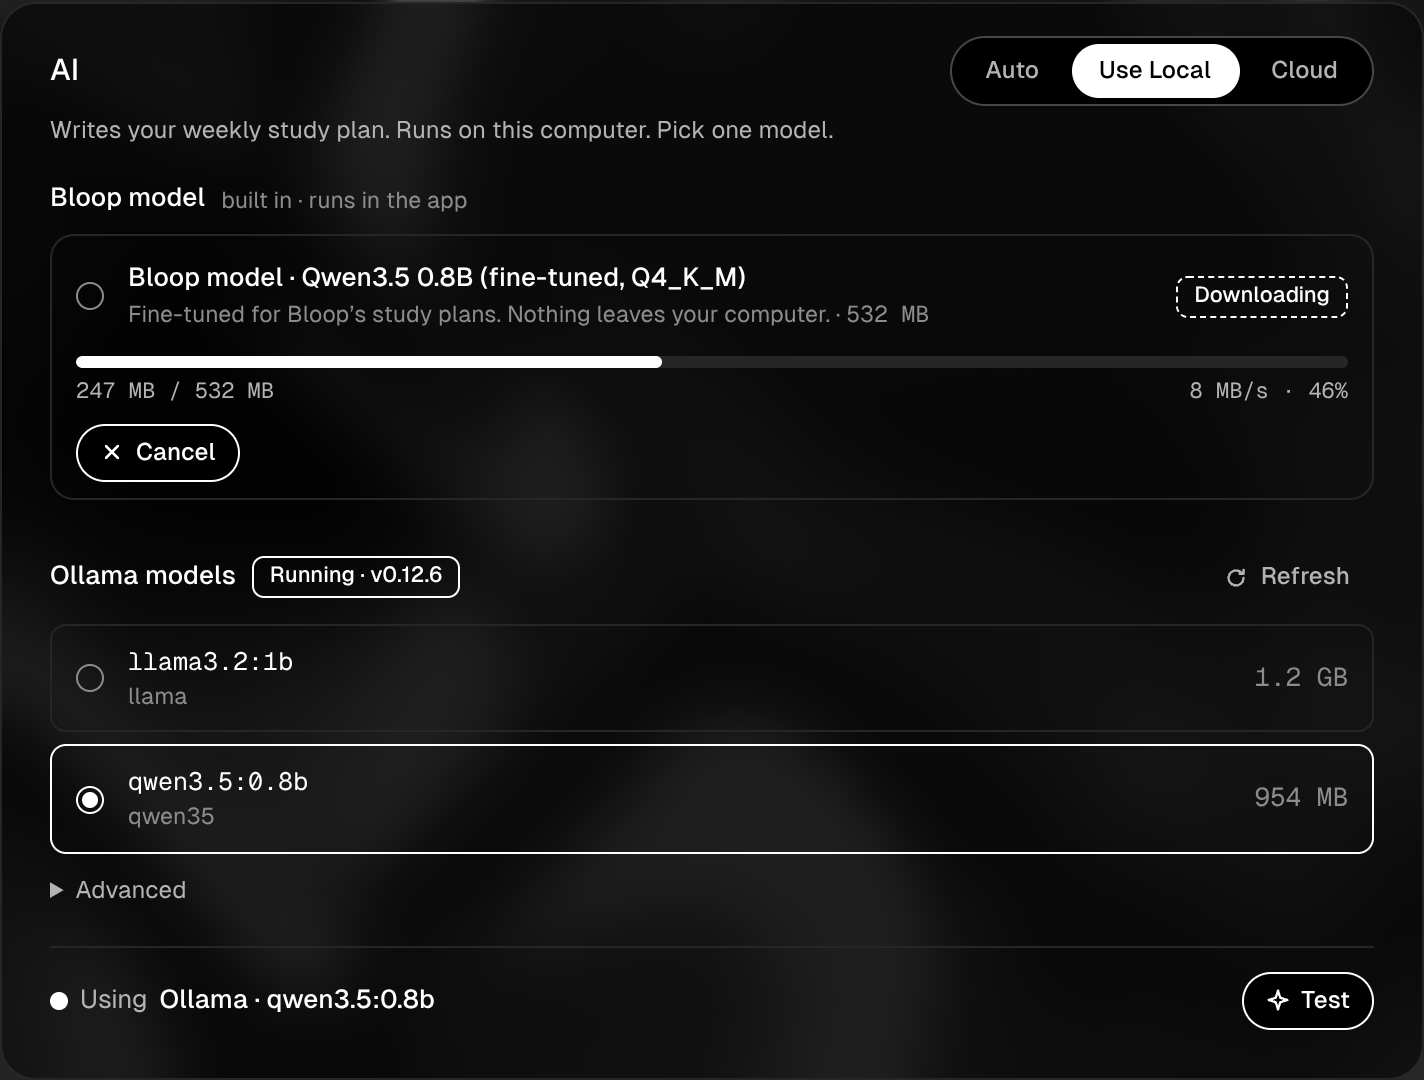
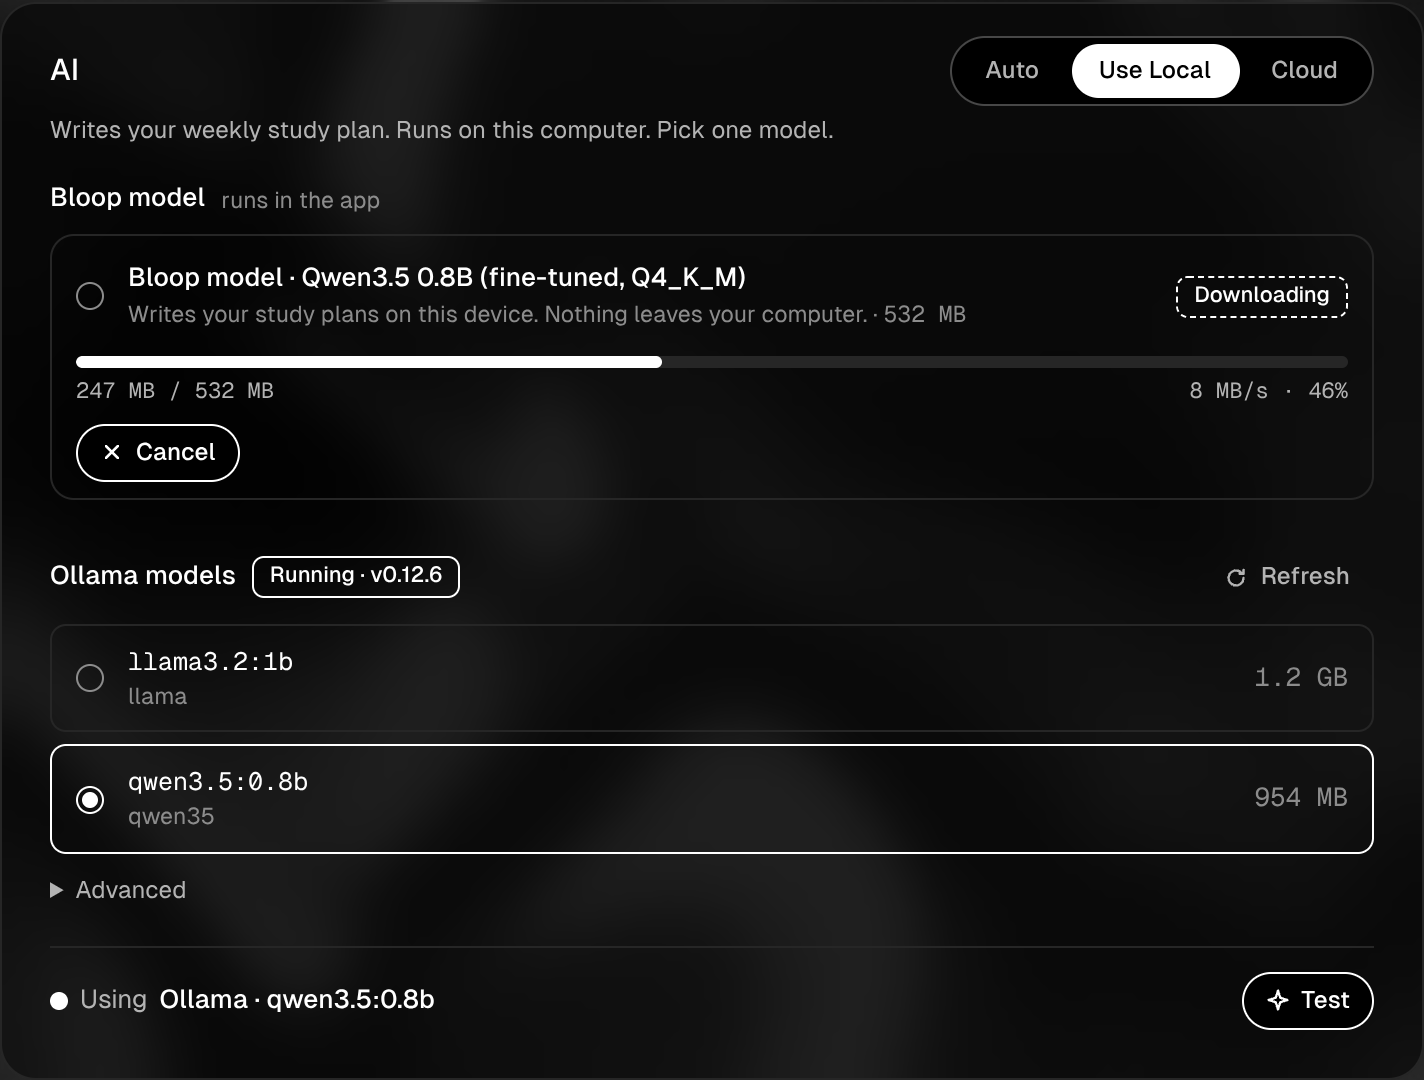
Bloop model: download the official Qwen3.5-0.8B Q4_K_M in-app (asks first)
- BLOOP_MODEL_URL/SHA256/BYTES point at unsloth/Qwen3.5-0.8B-GGUF Q4_K_M (532 MB,
  Apache-2.0), pinned to a revision; verified on download
- Copy no longer says fine-tuned; fine-tuning is optional (ml/ kit)
- README: download, bundling, swapping the source, Ollama think:false
- Regenerated AI settings screenshots

Changed region(s): [[0.0927, 0.275, 0.6798, 0.3056], [0.2163, 0.1833, 0.3399, 0.2139], [0.1545, 0.1833, 0.1854, 0.2139]]

diff --git a/src/main/ai/local/bloop.ts b/src/main/ai/local/bloop.ts
@@ -1,4 +1,5 @@
-// The Bloop model: our fine-tuned Qwen3.5-0.8B (Q4_K_M GGUF), run in-app with node-llama-cpp.
+// The Bloop model: Qwen3.5-0.8B (Q4_K_M GGUF), run in-app with node-llama-cpp. Stock by default; a
+// fine-tuned build (ml/ kit) can replace it via the constants below or by bundling it into the app.
 // The model can ship INSIDE the app (resources/models, see bundledModelDirs) but stays OFF until the
 // user turns it on (AiSettings.bloopEnabled). Otherwise it is imported, or downloaded ONLY after the
 // user confirms in the UI (download(true)); nothing here ever starts a download on its own. Electron-free so it can be unit tested; local/index.ts wires it up.
@@ -11,18 +12,22 @@ import type { BloopSource, DownloadProgress, LocalStatus } from '@shared/ai'
 import type { CompleteOptions } from '../types'
 
 // ------------------------------------------------------------------ catalog
-// Filled in after the fine-tuned GGUF is published (see README → AI → Publishing the Bloop model).
+// The download source. Set to the stock model; point these at a fine-tuned GGUF to ship that instead.
 // While BLOOP_MODEL_URL is empty the download button is disabled ("Not published yet");
 // importing a .gguf from disk still works.
 
 export const BLOOP_MODEL_ID = 'bloop-qwen3.5-0.8b'
-export const BLOOP_MODEL_LABEL = 'Bloop model · Qwen3.5 0.8B (fine-tuned)'
-/** Direct https URL of the .gguf (e.g. a Hugging Face "resolve/main/…gguf" link). */
-export const BLOOP_MODEL_URL = ''
+export const BLOOP_MODEL_LABEL = 'Bloop model · Qwen3.5 0.8B'
+/**
+ * Direct https URL of the .gguf. Default: the stock Qwen/Qwen3.5-0.8B quantized to Q4_K_M by Unsloth
+ * (Apache-2.0), pinned to a revision so the sha256 below stays valid. Swap in a fine-tuned build here.
+ */
+export const BLOOP_MODEL_URL =
+  'https://huggingface.co/unsloth/Qwen3.5-0.8B-GGUF/resolve/6ab461498e2023f6e3c1baea90a8f0fe38ab64d0/Qwen3.5-0.8B-Q4_K_M.gguf'
 /** Lowercase hex sha256 of the .gguf; when set, downloads are verified. */
-export const BLOOP_MODEL_SHA256 = ''
[1 lines of base64/hex data omitted]
 /** Exact size in bytes; used for the "~X MB" prompt and the free-space check. 0 = unknown. */
-export const BLOOP_MODEL_BYTES = 0
+export const BLOOP_MODEL_BYTES = 532_517_120
 /** File name inside userData/models. */
 export const BLOOP_MODEL_FILE = 'bloop-qwen3.5-0.8b-q4_k_m.gguf'
 

diff --git a/src/renderer/src/views/ai/AiSection.tsx b/src/renderer/src/views/ai/AiSection.tsx
@@ -172,7 +172,7 @@ function BloopGroup({
           <span className="ai-pick-text">
             <span className="ai-name">{bloop.label}</span>
             <span className="ai-sub faint">
-              Fine-tuned for Bloop’s study plans. Nothing leaves your computer.
+              Writes your study plans on this device. Nothing leaves your computer.
               {bloop.sizeBytes ? <> · <span className="num">{formatBytes(bloop.sizeBytes)}</span></> : null}
             </span>
           </span>

diff --git a/src/renderer/src/views/ai/BloopConfirm.tsx b/src/renderer/src/views/ai/BloopConfirm.tsx
@@ -35,7 +35,7 @@ export function BloopConfirm({
     >
       <p>{bloopOfferText(bloop)}</p>
       <p className="faint">
-        A fine-tuned Qwen3.5 0.8B that writes your study plans. Saved in Bloop’s app folder; delete it any time in Settings → AI.
+        Qwen3.5 0.8B (by Qwen, Apache-2.0) from Hugging Face. It writes your study plans. Saved in Bloop’s app folder; delete it any time in Settings → AI.
       </p>
     </ConfirmDialog>
   )

diff --git a/README.md b/README.md
@@ -85,38 +85,39 @@ The panel card says which one it used (for example "via Bloop model (on-device)"
 
 #### Use Local: the Bloop model
 
-The Bloop model is our own fine-tune of Qwen3.5-0.8B for writing study plans, packaged as a Q4_K_M GGUF (roughly 500 MB). Bloop runs it inside the app with [node-llama-cpp](https://node-llama-cpp.withcat.ai), so the prompt and the plan never leave your computer and it works offline.
+The Bloop model is [Qwen3.5-0.8B](https://huggingface.co/Qwen/Qwen3.5-0.8B) (Apache-2.0), packaged as a Q4_K_M GGUF of **532 MB**. Bloop runs it inside the app with [node-llama-cpp](https://node-llama-cpp.withcat.ai), so the prompt and the plan never leave your computer, it works offline, and you don't need Ollama. By default it's the stock model. A fine-tuned build from the kit in `ml/` can replace it (see below).
 
-- **It ships inside Bloop, but it is off until you choose it.** When the app was built with the model, **Settings → AI → Use Local → Bloop model** shows "included with Bloop · off" and a **Use Bloop model** button. Nothing is downloaded and nothing runs (not even for Auto) until you press it; **Turn off** switches it back and returns to Auto. A bundled model can't be deleted from the UI, since it is part of the app. The first time you turn it on, Bloop checks the file against its sha256 (a few seconds; remembered after that).
-- **Builds without the file** (for example a dev checkout) fall back to the options below: **Import .gguf…**, or a download if a URL is published.
-- **A published download is optional and only when you say so.** Choosing it, or pressing Generate while it's selected, asks first: "Download the Bloop model (~X MB)? It runs on this device, nothing leaves your computer." with **Download** and **Not now**. Nothing is fetched until you press Download.
-- The file goes to `<userData>/models/`. Downloads resume after a cancel, check free disk space first and are verified against a sha256 checksum. **Delete** removes the file.
-- **Import .gguf…** uses a GGUF file you already have (for example one you converted yourself) instead of downloading.
-- The model loads on first use with a 4096-token context and the GGUF's own chat template, is held to the plan's JSON schema with a grammar, and is unloaded after 5 idle minutes. llama.cpp works on native background threads, so the UI never stalls.
+- **Download from inside Bloop, only when you say so.** Go to **Settings → AI → Use Local → Bloop model → Download…**. Choosing it, or pressing Generate while it's selected, asks first: "Download the Bloop model (~532 MB)? It runs on this device, nothing leaves your computer." with **Download** and **Not now**. Nothing is fetched until you press Download.
+  - The source is [unsloth/Qwen3.5-0.8B-GGUF](https://huggingface.co/unsloth/Qwen3.5-0.8B-GGUF) (`Qwen3.5-0.8B-Q4_K_M.gguf`), pinned to a fixed revision.
+  - The file goes to `<userData>/models/`. Downloads resume after a cancel, check free disk space first, and are verified against the file's sha256. **Delete** removes it.
+- **Or bundle it into the app** (off until chosen). If the app was built with a model in `resources/models/`, **Settings → AI → Use Local → Bloop model** shows "included with Bloop · off" and a **Use Bloop model** button.
+  - Nothing runs, not even for Auto, until you press it. **Turn off** switches it back and returns to Auto.
+  - A bundled model can't be deleted from the UI, and it wins over a downloaded one. The first time you turn it on, Bloop checks its sha256 (a few seconds, remembered after that).
+- **Import .gguf…** uses a GGUF file you already have, for example a fine-tuned one, instead of downloading.
+- **How it runs:** the model loads on first use with a 4096-token context, the GGUF's own chat template, thinking turned off, and the plan's JSON schema enforced as a grammar. It unloads after 5 idle minutes, and llama.cpp works on native background threads, so the UI never stalls.
 
+![Download confirmation](docs/screenshots/settings-ai-confirm.png)
 ![Bloop model included, off](docs/screenshots/settings-ai-bundled-off.png)
 ![Bloop model on](docs/screenshots/settings-ai-bundled-on.png)
 
-![Download confirmation](docs/screenshots/settings-ai-confirm.png)
-
-**Bundling the model (default).** Train it with the kit in `ml/` (see `docs/BLOOP_MODEL_PLAYBOOK.md`), then:
-
-```bash
-npm run model:bundle   # copies the newest ml/out/bloop-*-Q4_K_M.gguf (or `-- path/to/model.gguf`) into resources/models/
-npm run build          # packages it; warns, but still succeeds, when no .gguf is there
-```
-
-`model:bundle` prints the size and sha256 and writes `resources/models/bloop-model.json` (`{file, bytes, sha256, base, builtAt}`). The `.gguf` and that json are gitignored (GitHub rejects files over 100 MB); only `resources/models/README.md` `.gitkeep` are committed. The app finds the model at `<repo>/resources/models` in dev and `<process.resourcesPath>/resources/models` when packaged (electron-builder copies `resources/**` there, and the file is not packed into the asar). Expect the app to be about **500 MB larger**.
-
-**Publishing the Bloop model (optional).** Hosting isn't needed if you bundle it. For a build with no bundled model, until the fine-tuned GGUF is published, the Download button is disabled and reads "Not published yet", but importing a file still works. After uploading the `.gguf` (for example to a Hugging Face model repo), fill in the constants at the top of `src/main/ai/local/bloop.ts`:
+**Changing the download source.** The constants at the top of `src/main/ai/local/bloop.ts` define what **Download** fetches:
 
 ```ts
-export const BLOOP_MODEL_URL = 'https://huggingface.co/<org>/<repo>/resolve/main/bloop-qwen3.5-0.8b-q4_k_m.gguf'
-export const BLOOP_MODEL_SHA256 = '<sha256sum of the file>' // shasum -a 256 file.gguf
-export const BLOOP_MODEL_BYTES = 0 // exact size: stat -f%z file.gguf (macOS) / stat -c%s file.gguf (Linux)
+export const BLOOP_MODEL_URL = 'https://huggingface.co/unsloth/Qwen3.5-0.8B-GGUF/resolve/<revision>/Qwen3.5-0.8B-Q4_K_M.gguf'
+export const BLOOP_MODEL_SHA256 = 'bd258782…dc517' // shasum -a 256 file.gguf
+export const BLOOP_MODEL_BYTES = 532_517_120       // exact size; used for "~X MB" and the disk-space check
 ```
 
-The size is used for the "~X MB" prompt and the disk-space check, and the checksum makes Bloop reject corrupted downloads.
+To ship a fine-tuned model instead, point these at your own direct-download link. That can be a public Hugging Face repo, a GitHub Release on a public repo, or any static host. Or skip hosting and bundle it.
+
+**Fine-tuning (optional).** The kit in `ml/` LoRA-tunes Qwen3.5-0.8B on Bloop's study-plan and nudge tasks. It runs on a free Colab T4 or an Apple Silicon Mac; see `docs/BLOOP_MODEL_PLAYBOOK.md`, which is one file with every script and the dataset embedded. To bundle the result:
+
+```bash
+npm run model:bundle -- path/to/bloop-qwen3.5-0.8b-Q4_K_M.gguf   # copies it into resources/models/ + writes bloop-model.json
+npm run build                                                   # packages it; warns, but still succeeds, when no .gguf is there
+```
+
+The `.gguf` and `bloop-model.json` are gitignored, because GitHub rejects files over 100 MB. A bundled model makes the app about **500 MB larger**. The app finds it at `<repo>/resources/models` in dev and at `<process.resourcesPath>/resources/models` when packaged. It is not packed into the asar.
 
 **Packaging note.** `node-llama-cpp` and its prebuilt binaries (`@node-llama-cpp/*`) are listed in `build.asarUnpack` so the native libraries load from `app.asar.unpacked`. A packaged app never tries to compile llama.cpp: it uses the prebuilt binary for the platform (Metal on Apple silicon, CPU or Vulkan/CUDA elsewhere).
 
@@ -125,10 +126,10 @@ The size is used for the "~X MB" prompt and the disk-space check, and the checks
 If you already use [Ollama](https://ollama.com/download), Bloop can use its models:
 
 1. Install Ollama and open it (it serves on `http://127.0.0.1:11434`).
-2. Pull the small model Bloop is tuned around: `ollama pull qwen3.5:0.8b` (any other model you have works too).
+2. Pull the same small model the Bloop model uses: `ollama pull qwen3.5:0.8b` (any other model you have works too).
 3. In **Settings → AI → Use Local**, pick a model from the **Ollama models** list and press **Refresh** if you just pulled one.
 
-If Ollama is running without `qwen3.5:0.8b`, Bloop offers **Pull qwen3.5:0.8b with Ollama?** and pulls it only after you confirm. If Ollama is installed but closed, Bloop says "Ollama is installed but not running: open Ollama". A different Ollama address can be set under **Advanced**. Requests use `/api/chat` with the plan's JSON schema as `format`.
+If Ollama is running without `qwen3.5:0.8b`, Bloop offers **Pull qwen3.5:0.8b with Ollama?** and pulls it only after you confirm. If Ollama is installed but closed, Bloop says "Ollama is installed but not running: open Ollama". A different Ollama address can be set under **Advanced**. Requests use `/api/chat` with the plan's JSON schema as `format` and `think: false`, so Qwen3.5 answers directly instead of reasoning at length first. If the server rejects the field, the request is retried once without it.
 
 #### `.env` fallback
 
